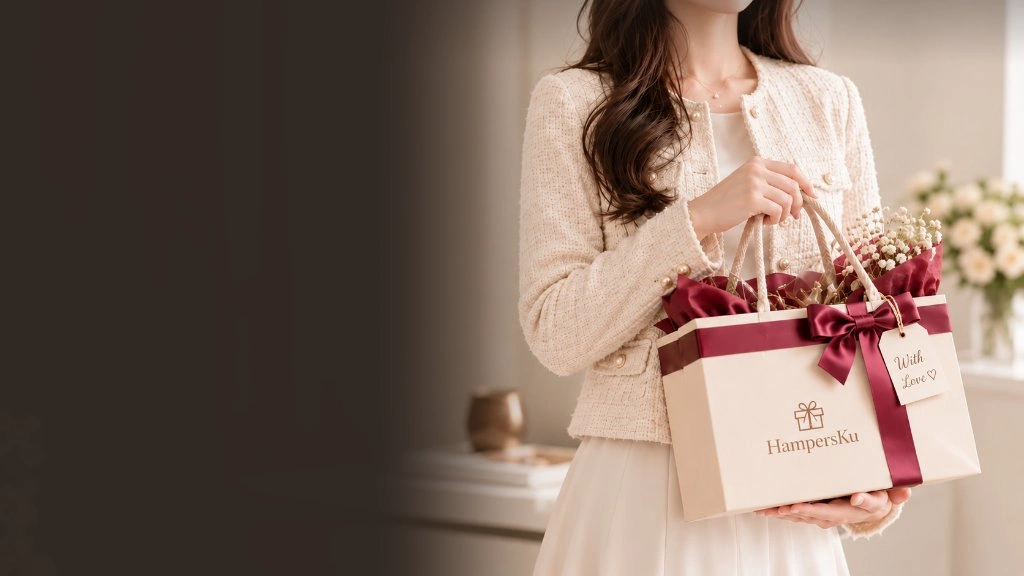
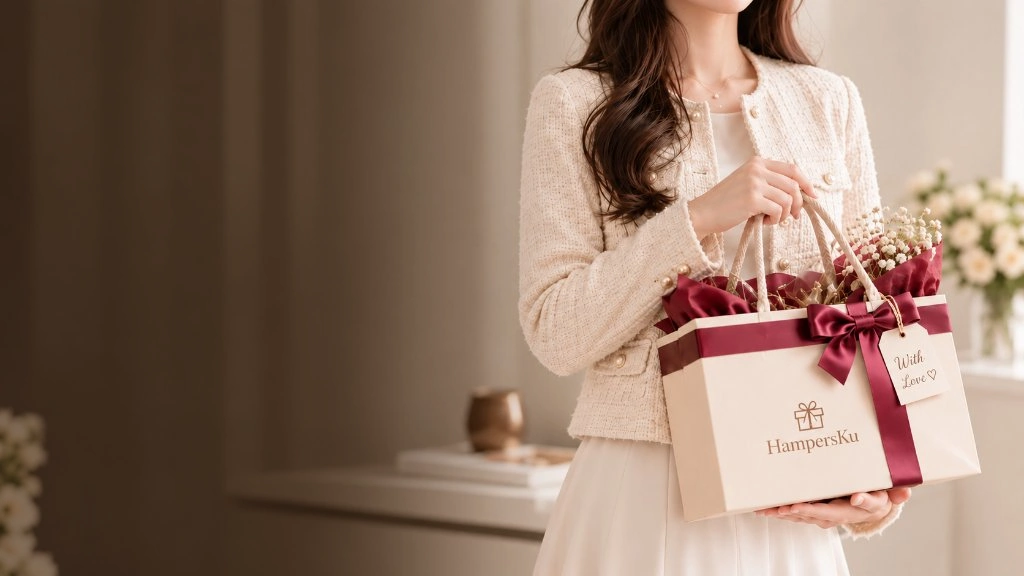
fix(hero): make left background translucent natural photo shadow and enlarge typography to match mockup

diff --git a/assets/css/style.css b/assets/css/style.css
@@ -1829,23 +1829,23 @@ body.cg-home-page .cg-hero,
   }
 
   .cg-hero .cg-container {
-    width: 100%;
-    padding-left: clamp(28px, 6vw, 75px);
-    padding-right: clamp(28px, 6vw, 75px);
+    max-width: 100% !important;
+    width: 100% !important;
+    padding-left: clamp(28px, 5.5vw, 65px) !important;
+    padding-right: clamp(28px, 5.5vw, 65px) !important;
+    box-sizing: border-box;
   }
 }
 
-/* Photo Backdrop using Authentic HampersKu Header (ftheader.webp) - Seamlessly Blended */
+/* Photo Backdrop using Authentic HampersKu Header (ftheader.webp) - Translucent Shadow Overlay matching Mockup */
 .cg-hero::before {
   content: "";
   position: absolute;
   inset: 0;
   width: 100%;
   height: 100%;
-  background-color: #302722;
-  background-image: 
-    linear-gradient(90deg, rgba(48, 39, 34, 0.45) 0%, rgba(48, 39, 34, 0.25) 42%, rgba(48, 39, 34, 0) 60%),
-    url('/assets/images/ftheader.webp?v=20261109_dark_espresso_mockup');
+  background-color: transparent;
+  background-image: url('/assets/images/ftheader.webp?v=20261109_translucent_v4');
   background-position: right center;
   background-size: cover;
   background-repeat: no-repeat;
@@ -1865,8 +1865,8 @@ body.cg-home-page .cg-hero,
 
   .cg-hero::before {
     background-image:
-      linear-gradient(180deg, rgba(48, 39, 34, 0.88) 0%, rgba(48, 39, 34, 0.96) 100%),
-      url('/assets/images/ftheader.webp?v=20261109_dark_espresso_mockup');
+      linear-gradient(180deg, rgba(48, 39, 34, 0.78) 0%, rgba(48, 39, 34, 0.92) 100%),
+      url('/assets/images/ftheader.webp?v=20261109_translucent_v4');
     background-position: center center;
   }
 }
@@ -1907,9 +1907,9 @@ body.cg-home-page .cg-hero,
 
 .cg-hero-eyebrow {
   display: inline-block;
-  color: #CBB49C;
-  font-size: 0.82rem;
-  font-weight: 600;
+  color: #D9C3AD;
+  font-size: clamp(0.68rem, 0.8vw, 0.74rem);
+  font-weight: 500;
   letter-spacing: 0.18em;
   text-transform: uppercase;
   margin: 0;
@@ -1919,39 +1919,39 @@ body.cg-home-page .cg-hero,
 
 .cg-hero-eyebrow-line {
   display: inline-block;
-  width: 55px;
+  width: 50px;
   height: 1px;
-  background-color: #CBB49C;
-  opacity: 0.85;
+  background-color: #D9C3AD;
+  opacity: 0.75;
 }
 
 .cg-hero h1,
 .cg-hero #hero-title {
   font-family: 'Playfair Display', Georgia, 'Times New Roman', serif;
-  font-size: clamp(2.05rem, 3.4vw, 2.9rem);
-  font-weight: 500;
-  line-height: 1.18;
-  color: #FFFFFF;
-  letter-spacing: -0.01em;
-  margin-bottom: 14px;
+  font-size: clamp(2.45rem, 3.8vw, 3.35rem) !important;
+  font-weight: 600 !important;
+  line-height: 1.14 !important;
+  color: #FFFFFF !important;
+  letter-spacing: -0.015em !important;
+  margin-bottom: 16px !important;
   text-shadow: 0 2px 14px rgba(0, 0, 0, 0.35);
 }
 
 .cg-hero .cg-hero-title-italic {
   font-family: 'Playfair Display', Georgia, serif;
-  font-style: italic;
-  font-weight: 400;
-  color: #D9C3AD;
-  text-shadow: 0 2px 14px rgba(217, 195, 173, 0.2);
+  font-style: italic !important;
+  font-weight: 400 !important;
+  color: #E2CFBB !important;
+  text-shadow: 0 2px 14px rgba(226, 207, 187, 0.2);
 }
 
 .cg-hero-desc {
   font-family: var(--cg-font-sans);
-  font-size: clamp(0.85rem, 0.98vw, 0.94rem);
-  line-height: 1.55;
-  color: rgba(255, 255, 255, 0.9);
-  margin-bottom: 22px;
-  max-width: 480px;
+  font-size: clamp(0.88rem, 1.05vw, 0.98rem) !important;
+  line-height: 1.55 !important;
+  color: rgba(255, 255, 255, 0.88) !important;
+  margin-bottom: 26px !important;
+  max-width: 440px !important;
   text-shadow: 0 1px 4px rgba(0, 0, 0, 0.35);
 }
 
@@ -1968,8 +1968,8 @@ body.cg-home-page .cg-hero,
   display: inline-flex;
   align-items: center;
   justify-content: center;
-  gap: 10px;
-  padding: 12px 28px;
+  gap: 8px;
+  padding: 11px 24px;
   border-radius: 9999px;
   font-family: var(--cg-font-sans);
   font-size: 0.88rem;

diff --git a/index.html b/index.html
@@ -63,7 +63,7 @@
   <link href="https://fonts.googleapis.com/css2?family=Playfair+Display:ital,wght@0,500;0,600;0,700;1,500;1,600;1,700&display=swap" rel="stylesheet">
 
   <!-- Core Stylesheet (Bootstrap Grid + Custom Design System, Minified) -->
-  <link rel="stylesheet" href="/assets/css/style.css?v=20261109_espresso_dark_clean_v2">
+  <link rel="stylesheet" href="/assets/css/style.css?v=20261109_translucent_textmatch_v3">
 
   <!-- Embedded Hampers Collection Carousel Styles (Guaranteed Instant Horizontal Layout) -->
   <style id="hampersku-marquee-inline-css">
